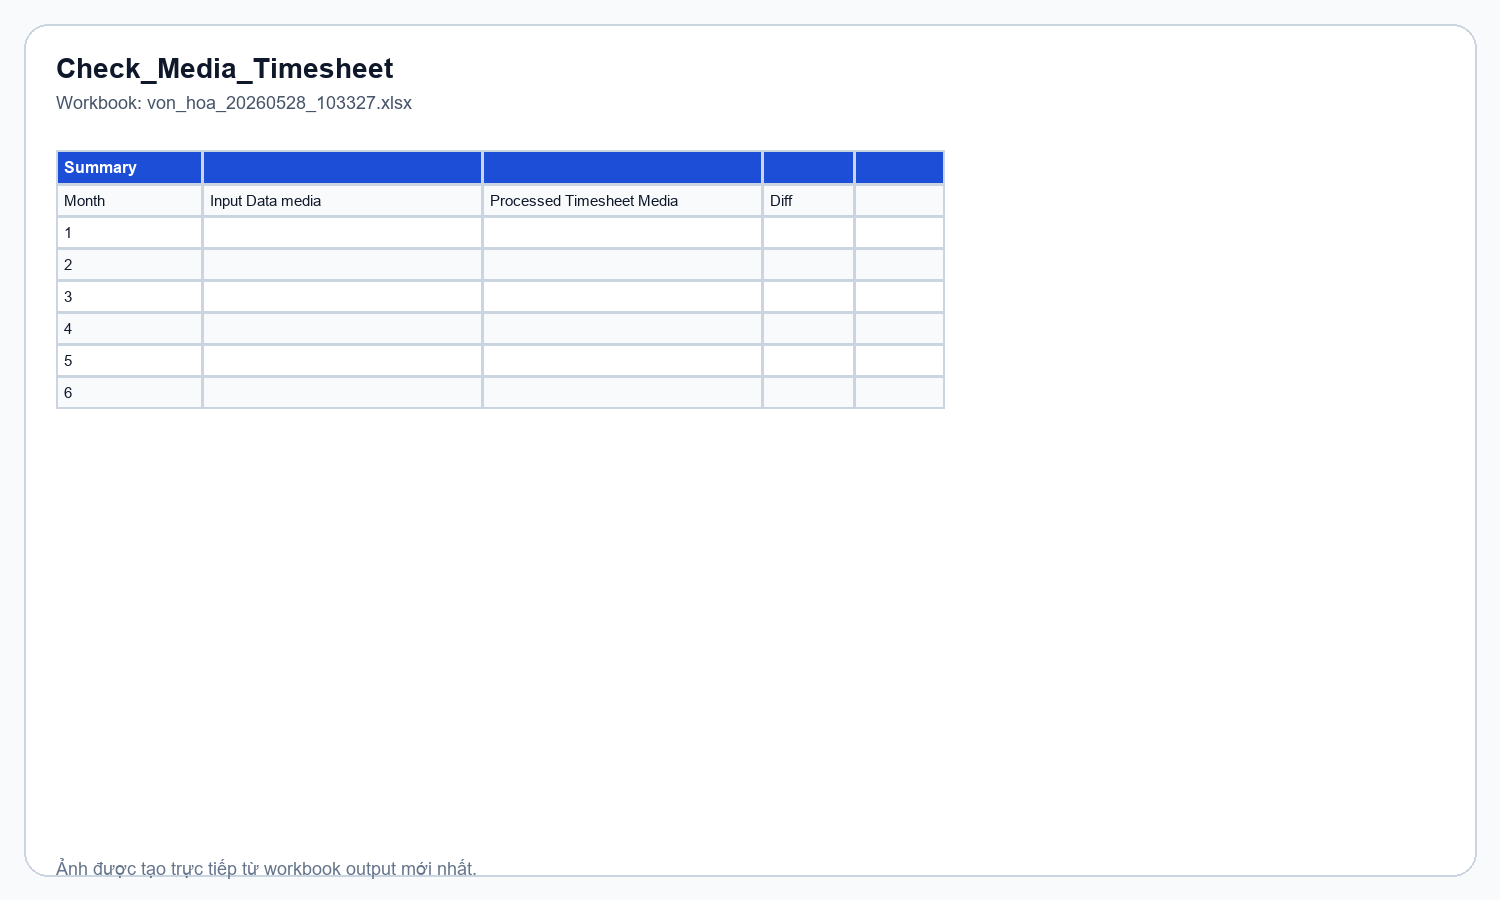
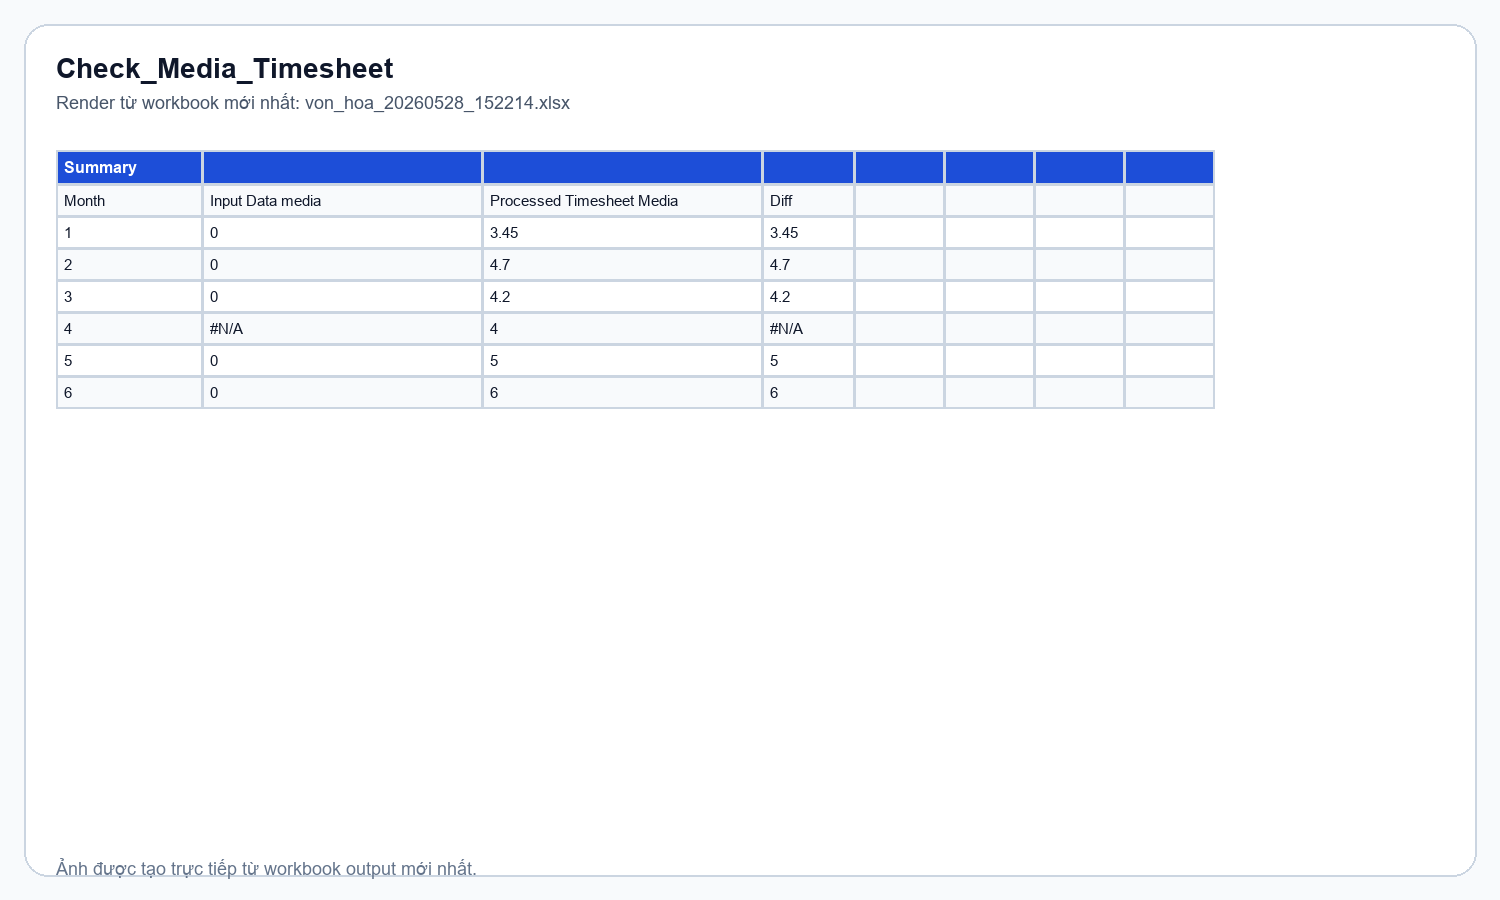
Render BOD deck images from latest workbook

Changed region(s): [[0.6133, 0.1556, 0.828, 0.28], [0.644, 0.3111, 0.7973, 0.4667], [0.0307, 0.0933, 0.368, 0.1244]]

diff --git a/docs/thuyet_trinh_bod_manager.html b/docs/thuyet_trinh_bod_manager.html
@@ -473,7 +473,7 @@
           <div class="tag">Bối cảnh</div>
           <ul class="list">
             <li>Dữ liệu nằm rải rác ở Google Sheets, Excel, OneDrive và các workbook output khác nhau.</li>
-            <li>Làm tay nghĩa là copy/paste, đối chiếu, sửa lại, rồi chờ người khác kiểm tra.</li>
+            <li>Làm thủ công nghĩa là copy/paste, đối chiếu, sửa lại, rồi chờ người khác kiểm tra.</li>
             <li>Cách đó chậm, dễ lệch và rất khó scale khi khối lượng tăng.</li>
             <li>Automation ra đời để biến một quy trình rời rạc thành một quy trình có thể lặp lại và kiểm soát.</li>
           </ul>
@@ -536,7 +536,7 @@
     <div class="card">
       <div class="tag">Manual risk</div>
       <h3>Không biết lỗi lan đến đâu</h3>
-      <p>Một thay đổi nhỏ ở source có thể chạm tới project master, SX staging, downstream và result sheet. Làm tay rất khó nhìn hết phạm vi tác động.</p>
+      <p>Một thay đổi nhỏ ở source có thể chạm tới project master, SX staging, downstream và result sheet. Làm thủ công rất khó nhìn hết phạm vi tác động.</p>
     </div>
     
       </div>
@@ -558,53 +558,53 @@
 
     <section class="slide">
       <div class="eyebrow">ẢNH TỪ FILE MỚI NHẤT</div>
-      <h2>Trước đây: phải mở từng nguồn để tự đối chiếu</h2>
-      <p class="subtitle">Các ảnh này là ảnh sheet riêng lẻ lấy từ file mới nhất: nguồn IT, nguồn Media và Data media. Khi làm thủ công, người vận hành phải tự mở từng nguồn này để kiểm tra mapping trước khi biết dữ liệu nào đủ điều kiện đi tiếp.</p>
+      <h2>Trước đây: phải mở nhiều sheet để tự đối chiếu</h2>
+      <p class="subtitle">Các ảnh này được render trực tiếp từ workbook output mới nhất. Chúng minh họa các sheet người vận hành thường phải mở thủ công để kiểm tra: chi phí nhân sự IT, sheet vốn hóa và Data media.</p>
       <div class="visual-grid">
         <div class="visual-card">
-          <span class="compare-label">Source / IT</span>
-          <h3>Timesheet IT</h3>
-          <img src="generated_assets/timesheet_it.png" alt="Timesheet IT từ workbook mới nhất">
-          <p>Nguồn IT cho biết nhân sự nào ghi nhận thời gian vào project nào, tháng nào và task nào.</p>
+          <span class="compare-label">IT cost</span>
+          <h3>Chi phí nhân sự IT</h3>
+          <img src="generated_assets/bod_slide5_cost_it.png" alt="Chi phí nhân sự IT từ workbook mới nhất">
+          <p>Người vận hành phải kiểm tra tỷ trọng, tháng, nhân sự và project trước khi biết dữ liệu có thể đi tiếp sang vốn hóa hay không.</p>
+        </div>
+        <div class="visual-card">
+          <span class="compare-label">Capitalization</span>
+          <h3>3.Vốn hóa</h3>
+          <img src="generated_assets/bod_slide5_von_hoa.png" alt="Sheet 3.Vốn hóa từ workbook mới nhất">
+          <p>Đây là output quản trị quan trọng: dữ liệu chỉ nên vào đây sau khi source, mapping và checkpoint đã được kiểm soát.</p>
         </div>
         <div class="visual-card">
           <span class="compare-label">Source / Media</span>
-          <h3>Timesheet Media</h3>
-          <img src="generated_assets/timesheet_media.png" alt="Timesheet Media từ workbook mới nhất">
-          <p>Nguồn Media cần đối chiếu người làm task, thời gian, project và BU trước khi tính chi phí.</p>
-        </div>
-        <div class="visual-card">
-          <span class="compare-label">Source / Media master</span>
           <h3>Data media ACCA+CFA+CMA</h3>
-          <img src="generated_assets/data_media_sheet.png" alt="Data media ACCA CFA CMA từ workbook mới nhất">
-          <p>Đây là lớp dữ liệu hỗ trợ mapping cho Media. Nếu master lệch, result cuối cũng có thể lệch.</p>
+          <img src="generated_assets/bod_slide5_data_media.png" alt="Data media ACCA CFA CMA từ workbook mới nhất">
+          <p>Data media cho thấy project, task, số giờ, tháng, người làm và MNV. Đây là ví dụ điển hình của dữ liệu cần chuẩn hóa trước khi tổng hợp.</p>
         </div>
       </div>
       <div class="notes">Điểm cần nói: automation không bắt đầu từ output, mà bắt đầu bằng việc nhìn rõ source nào đang nuôi vào bài toán.</div>
     </section>
 
     <section class="slide">
-      <div class="eyebrow">SOURCE SX INPUT</div>
-      <h2>Nguồn SX trước khi merge vào staging</h2>
-      <p class="subtitle">Đây là ảnh chụp trực tiếp từ các workbook input raw `ACCA.xlsx`, `CFA.xlsx`, `CMA.xlsx`. Điểm quan trọng là SX phải được làm sạch từ nguồn và staging trước khi đi vào workbook output.</p>
+      <div class="eyebrow">SX TRONG WORKBOOK MỚI NHẤT</div>
+      <h2>Nguồn SX sau khi được đưa vào staging</h2>
+      <p class="subtitle">Các ảnh này cũng được render từ workbook output mới nhất. Điểm quan trọng là SX phải được làm sạch ở staging trước khi đi vào Timesheet SX, chi phí nhân sự SX và vốn hóa.</p>
       <div class="visual-grid">
         <div class="visual-card">
-          <span class="compare-label">Input / ACCA</span>
-          <h3>ACCA.xlsx - sheet 0426</h3>
-          <img src="generated_assets/sx_source_acca.png" alt="Nguồn SX ACCA từ input raw">
-          <p>Nguồn ACCA là một phần dữ liệu SX trước khi merge. Nếu tên nhân viên, chương trình hoặc sản phẩm lệch thì staging sẽ phát hiện ở checkpoint.</p>
+          <span class="compare-label">SX staging</span>
+          <h3>Data SX ACCA+CMA</h3>
+          <img src="generated_assets/sx_source_acca.png" alt="Data SX ACCA+CMA từ workbook mới nhất">
+          <p>Đây là lớp staging sau khi dữ liệu SX được đưa về một cấu trúc chung để kiểm tra.</p>
         </div>
         <div class="visual-card">
-          <span class="compare-label">Input / CFA</span>
-          <h3>CFA.xlsx - sheet Apr 26</h3>
-          <img src="generated_assets/sx_source_cfa.png" alt="Nguồn SX CFA từ input raw">
-          <p>Nguồn CFA có cấu trúc workbook riêng. Automation gom về staging để tránh việc người vận hành phải tự copy và tự chuẩn hóa format.</p>
+          <span class="compare-label">SX build</span>
+          <h3>SX_Allocation_Build</h3>
+          <img src="generated_assets/sx_source_cfa.png" alt="SX Allocation Build từ workbook mới nhất">
+          <p>Sheet trung gian giúp chuẩn hóa allocation trước khi downstream chạy công thức.</p>
         </div>
         <div class="visual-card">
-          <span class="compare-label">Input / CMA</span>
-          <h3>CMA.xlsx - employee sheet</h3>
-          <img src="generated_assets/sx_source_cma.png" alt="Nguồn SX CMA từ input raw">
-          <p>Nguồn CMA nằm theo từng sheet nhân sự. Đây là lý do cần merge SX trước khi đưa dữ liệu sang checkpoint và output.</p>
+          <span class="compare-label">SX timesheet</span>
+          <h3>Timesheet SX</h3>
+          <img src="generated_assets/sx_source_cma.png" alt="Timesheet SX từ workbook mới nhất">
+          <p>Timesheet SX là downstream sau staging; nếu staging sai thì phần chi phí và vốn hóa phía sau sẽ sai theo.</p>
         </div>
       </div>
     </section>

diff --git a/generate_bod_presentation_html.py b/generate_bod_presentation_html.py
@@ -3,9 +3,51 @@ from __future__ import annotations
 import argparse
 from pathlib import Path
 
+from generate_huong_dan_pdf import latest_xlsx, open_workbook, preview_sheet_image
+
 
 WORK_DIR = Path(__file__).resolve().parent
 DEFAULT_OUTPUT = WORK_DIR / "docs" / "thuyet_trinh_bod_manager.html"
+
+
+def build_workbook_assets() -> None:
+    latest_final = latest_xlsx(WORK_DIR / "data" / "output" / "final")
+    if latest_final is None:
+        raise FileNotFoundError("Khong tim thay workbook output moi nhat trong data/output/final.")
+
+    wb = open_workbook(latest_final)
+    note = f"Render từ workbook mới nhất: {latest_final.name}"
+    specs = [
+        ("Huong_dan_Approval", "approval_guide.png", 12, 5, 900),
+        ("Check_IT_CPNS", "check_it_cpns.png", 8, 8, 900),
+        ("Check_Media_Timesheet", "check_media_timesheet.png", 8, 8, 900),
+        ("IT_Approval_Result", "it_approval_result.png", 6, 8, 900),
+        ("Project_Master_Approval_Result", "project_master_approval_result.png", 6, 8, 900),
+        ("Media_Approval_Result", "media_approval_result.png", 6, 8, 900),
+        ("checkpoint data SX", "sx_checkpoint.png", 8, 8, 900),
+        ("Check_SX_Downstream", "sx_downstream.png", 8, 8, 900),
+        ("SX_Approval_Result", "sx_approval_result.png", 6, 8, 900),
+        ("SX_Downstream_Approval_Result", "sx_downstream_approval_result.png", 6, 8, 900),
+        ("Timesheet IT", "timesheet_it.png", 8, 8, 900),
+        ("Timesheet Media", "timesheet_media.png", 8, 8, 900),
+        ("Data media ACCA+CFA+CMA", "data_media_sheet.png", 8, 9, 900),
+        ("Chi phí nhân sự IT", "bod_slide5_cost_it.png", 14, 14, 900),
+        ("3.Vốn hóa", "bod_slide5_von_hoa.png", 10, 12, 900),
+        ("Data media ACCA+CFA+CMA", "bod_slide5_data_media.png", 10, 10, 900),
+        ("Data SX ACCA+CMA", "sx_source_acca.png", 10, 10, 900),
+        ("SX_Allocation_Build", "sx_source_cfa.png", 10, 10, 900),
+        ("Timesheet SX", "sx_source_cma.png", 10, 10, 900),
+    ]
+    for sheet_name, out_name, rows, cols, height in specs:
+        preview_sheet_image(
+            wb,
+            sheet_name,
+            out_name,
+            max_rows=rows,
+            max_cols=cols,
+            note=note,
+            card_height=height,
+        )
 
 
 def section(title: str, eyebrow: str, body: str, notes: str | None = None) -> str:
@@ -507,7 +549,7 @@ def build_html() -> str:
           <div class="tag">Bối cảnh</div>
           <ul class="list">
             <li>Dữ liệu nằm rải rác ở Google Sheets, Excel, OneDrive và các workbook output khác nhau.</li>
-            <li>Làm tay nghĩa là copy/paste, đối chiếu, sửa lại, rồi chờ người khác kiểm tra.</li>
+            <li>Làm thủ công nghĩa là copy/paste, đối chiếu, sửa lại, rồi chờ người khác kiểm tra.</li>
             <li>Cách đó chậm, dễ lệch và rất khó scale khi khối lượng tăng.</li>
             <li>Automation ra đời để biến một quy trình rời rạc thành một quy trình có thể lặp lại và kiểm soát.</li>
           </ul>
@@ -536,7 +578,7 @@ def build_html() -> str:
       <div class="grid-3">
         {card("Sai ở bước phân loại", "IT, Media và SX có logic khác nhau. Khi làm thủ công, người vận hành dễ nhầm dòng nào thuộc cost, dòng nào thuộc project, dòng nào cần loại khỏi vốn hóa.", "Manual risk")}
         {card("Sửa thẳng output", "Khi phát hiện lỗi muộn, cách xử lý thường là sửa trực tiếp trong file kết quả. Cách này nhanh trước mắt nhưng khó audit và dễ mất dấu nguyên nhân gốc.", "Manual risk")}
-        {card("Không biết lỗi lan đến đâu", "Một thay đổi nhỏ ở source có thể chạm tới project master, SX staging, downstream và result sheet. Làm tay rất khó nhìn hết phạm vi tác động.", "Manual risk")}
+        {card("Không biết lỗi lan đến đâu", "Một thay đổi nhỏ ở source có thể chạm tới project master, SX staging, downstream và result sheet. Làm thủ công rất khó nhìn hết phạm vi tác động.", "Manual risk")}
       </div>
       <div class="notes">Câu nói gợi ý: trước automation, rủi ro lớn không nằm ở một công thức đơn lẻ, mà nằm ở việc con người phải nhớ quá nhiều quy tắc khi copy, map và phân loại dữ liệu.</div>
     </section>
@@ -556,53 +598,53 @@ def build_html() -> str:
 
     <section class="slide">
       <div class="eyebrow">ẢNH TỪ FILE MỚI NHẤT</div>
-      <h2>Trước đây: phải mở từng nguồn để tự đối chiếu</h2>
-      <p class="subtitle">Các ảnh này là ảnh sheet riêng lẻ lấy từ file mới nhất: nguồn IT, nguồn Media và Data media. Khi làm thủ công, người vận hành phải tự mở từng nguồn này để kiểm tra mapping trước khi biết dữ liệu nào đủ điều kiện đi tiếp.</p>
+      <h2>Trước đây: phải mở nhiều sheet để tự đối chiếu</h2>
+      <p class="subtitle">Các ảnh này được render trực tiếp từ workbook output mới nhất. Chúng minh họa các sheet người vận hành thường phải mở thủ công để kiểm tra: chi phí nhân sự IT, sheet vốn hóa và Data media.</p>
       <div class="visual-grid">
         <div class="visual-card">
-          <span class="compare-label">Source / IT</span>
-          <h3>Timesheet IT</h3>
-          <img src="generated_assets/timesheet_it.png" alt="Timesheet IT từ workbook mới nhất">
-          <p>Nguồn IT cho biết nhân sự nào ghi nhận thời gian vào project nào, tháng nào và task nào.</p>
+          <span class="compare-label">IT cost</span>
+          <h3>Chi phí nhân sự IT</h3>
+          <img src="generated_assets/bod_slide5_cost_it.png" alt="Chi phí nhân sự IT từ workbook mới nhất">
+          <p>Người vận hành phải kiểm tra tỷ trọng, tháng, nhân sự và project trước khi biết dữ liệu có thể đi tiếp sang vốn hóa hay không.</p>
+        </div>
+        <div class="visual-card">
+          <span class="compare-label">Capitalization</span>
+          <h3>3.Vốn hóa</h3>
+          <img src="generated_assets/bod_slide5_von_hoa.png" alt="Sheet 3.Vốn hóa từ workbook mới nhất">
+          <p>Đây là output quản trị quan trọng: dữ liệu chỉ nên vào đây sau khi source, mapping và checkpoint đã được kiểm soát.</p>
         </div>
         <div class="visual-card">
           <span class="compare-label">Source / Media</span>
-          <h3>Timesheet Media</h3>
-          <img src="generated_assets/timesheet_media.png" alt="Timesheet Media từ workbook mới nhất">
-          <p>Nguồn Media cần đối chiếu người làm task, thời gian, project và BU trước khi tính chi phí.</p>
-        </div>
-        <div class="visual-card">
-          <span class="compare-label">Source / Media master</span>
           <h3>Data media ACCA+CFA+CMA</h3>
-          <img src="generated_assets/data_media_sheet.png" alt="Data media ACCA CFA CMA từ workbook mới nhất">
-          <p>Đây là lớp dữ liệu hỗ trợ mapping cho Media. Nếu master lệch, result cuối cũng có thể lệch.</p>
+          <img src="generated_assets/bod_slide5_data_media.png" alt="Data media ACCA CFA CMA từ workbook mới nhất">
+          <p>Data media cho thấy project, task, số giờ, tháng, người làm và MNV. Đây là ví dụ điển hình của dữ liệu cần chuẩn hóa trước khi tổng hợp.</p>
         </div>
       </div>
       <div class="notes">Điểm cần nói: automation không bắt đầu từ output, mà bắt đầu bằng việc nhìn rõ source nào đang nuôi vào bài toán.</div>
     </section>
 
     <section class="slide">
-      <div class="eyebrow">SOURCE SX INPUT</div>
-      <h2>Nguồn SX trước khi merge vào staging</h2>
-      <p class="subtitle">Đây là ảnh chụp trực tiếp từ các workbook input raw `ACCA.xlsx`, `CFA.xlsx`, `CMA.xlsx`. Điểm quan trọng là SX phải được làm sạch từ nguồn và staging trước khi đi vào workbook output.</p>
+      <div class="eyebrow">SX TRONG WORKBOOK MỚI NHẤT</div>
+      <h2>Nguồn SX sau khi được đưa vào staging</h2>
+      <p class="subtitle">Các ảnh này cũng được render từ workbook output mới nhất. Điểm quan trọng là SX phải được làm sạch ở staging trước khi đi vào Timesheet SX, chi phí nhân sự SX và vốn hóa.</p>
       <div class="visual-grid">
         <div class="visual-card">
-          <span class="compare-label">Input / ACCA</span>
-          <h3>ACCA.xlsx - sheet 0426</h3>
-          <img src="generated_assets/sx_source_acca.png" alt="Nguồn SX ACCA từ input raw">
-          <p>Nguồn ACCA là một phần dữ liệu SX trước khi merge. Nếu tên nhân viên, chương trình hoặc sản phẩm lệch thì staging sẽ phát hiện ở checkpoint.</p>
+          <span class="compare-label">SX staging</span>
+          <h3>Data SX ACCA+CMA</h3>
+          <img src="generated_assets/sx_source_acca.png" alt="Data SX ACCA+CMA từ workbook mới nhất">
+          <p>Đây là lớp staging sau khi dữ liệu SX được đưa về một cấu trúc chung để kiểm tra.</p>
         </div>
         <div class="visual-card">
-          <span class="compare-label">Input / CFA</span>
-          <h3>CFA.xlsx - sheet Apr 26</h3>
-          <img src="generated_assets/sx_source_cfa.png" alt="Nguồn SX CFA từ input raw">
-          <p>Nguồn CFA có cấu trúc workbook riêng. Automation gom về staging để tránh việc người vận hành phải tự copy và tự chuẩn hóa format.</p>
+          <span class="compare-label">SX build</span>
+          <h3>SX_Allocation_Build</h3>
+          <img src="generated_assets/sx_source_cfa.png" alt="SX Allocation Build từ workbook mới nhất">
+          <p>Sheet trung gian giúp chuẩn hóa allocation trước khi downstream chạy công thức.</p>
         </div>
         <div class="visual-card">
-          <span class="compare-label">Input / CMA</span>
-          <h3>CMA.xlsx - employee sheet</h3>
-          <img src="generated_assets/sx_source_cma.png" alt="Nguồn SX CMA từ input raw">
-          <p>Nguồn CMA nằm theo từng sheet nhân sự. Đây là lý do cần merge SX trước khi đưa dữ liệu sang checkpoint và output.</p>
+          <span class="compare-label">SX timesheet</span>
+          <h3>Timesheet SX</h3>
+          <img src="generated_assets/sx_source_cma.png" alt="Timesheet SX từ workbook mới nhất">
+          <p>Timesheet SX là downstream sau staging; nếu staging sai thì phần chi phí và vốn hóa phía sau sẽ sai theo.</p>
         </div>
       </div>
     </section>
@@ -901,6 +943,7 @@ def build_html() -> str:
 
 
 def build_html_file(output_path: Path) -> Path:
+    build_workbook_assets()
     output_path.parent.mkdir(parents=True, exist_ok=True)
     output_path.write_text(build_html(), encoding="utf-8")
     return output_path
